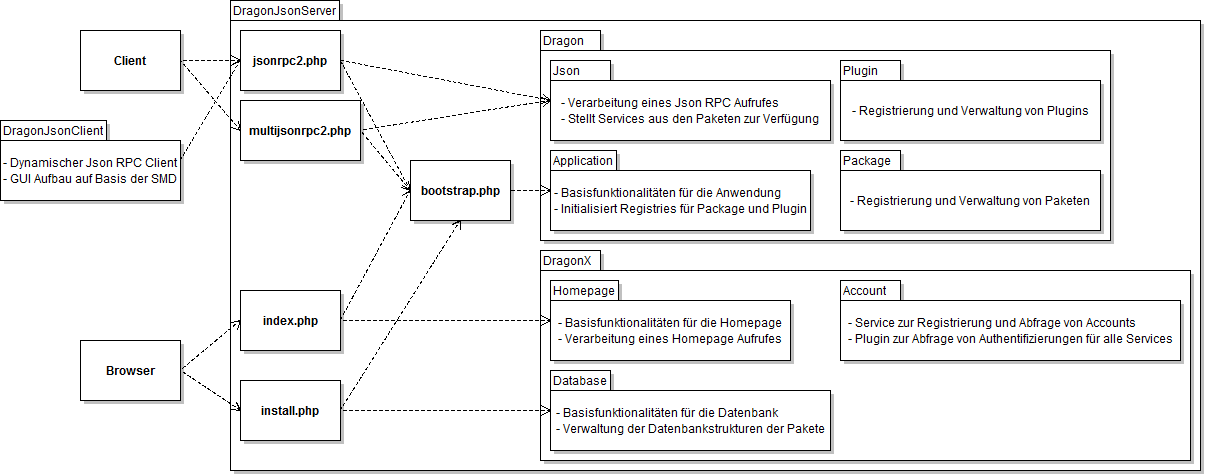
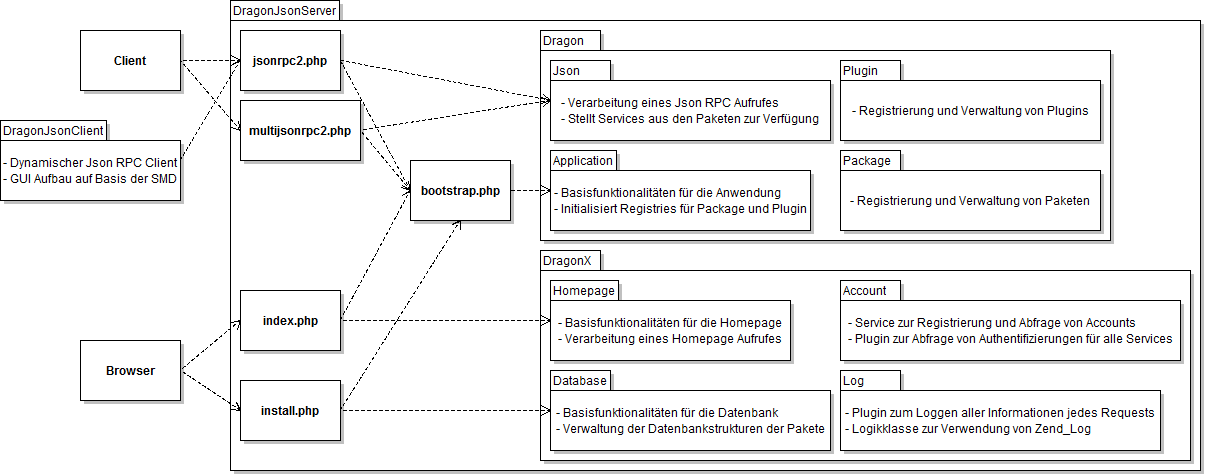
Dokumentation für die Änderungen an DragonX_Account (Zend_Log Abfrage und hinzufügen der AccountID als Eventitem) und DragonX_Database (neue Methode _formatTimestamp) Dokumentation für das Paket DragonX_Log

Changed region(s): [[0.7062, 0.8547, 0.9826, 0.9726], [0.6755, 0.7958, 0.7676, 0.8253]]

diff --git a/trunk/config/dragonx/homepage/documentation.php b/trunk/config/dragonx/homepage/documentation.php
@@ -33,4 +33,5 @@ return array(
     'dragonx_account' => 'Paket Account',
     'dragonx_database' => 'Paket Database',
     'dragonx_homepage' => 'Paket Homepage',
+    'dragonx_log' => 'Paket Log',
 );
